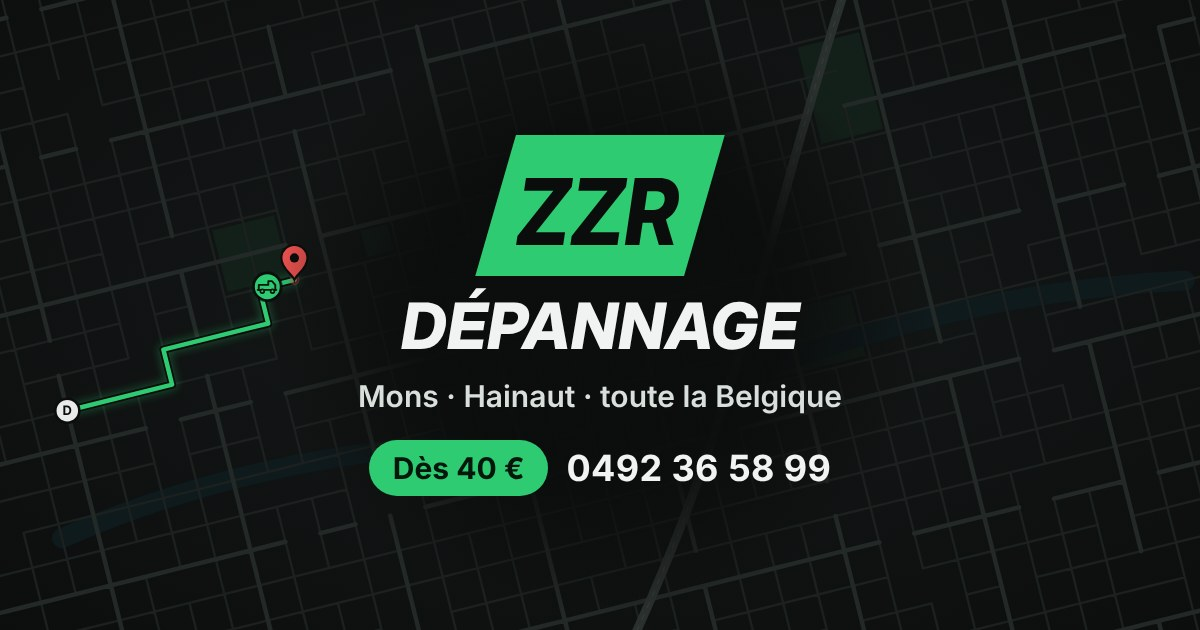
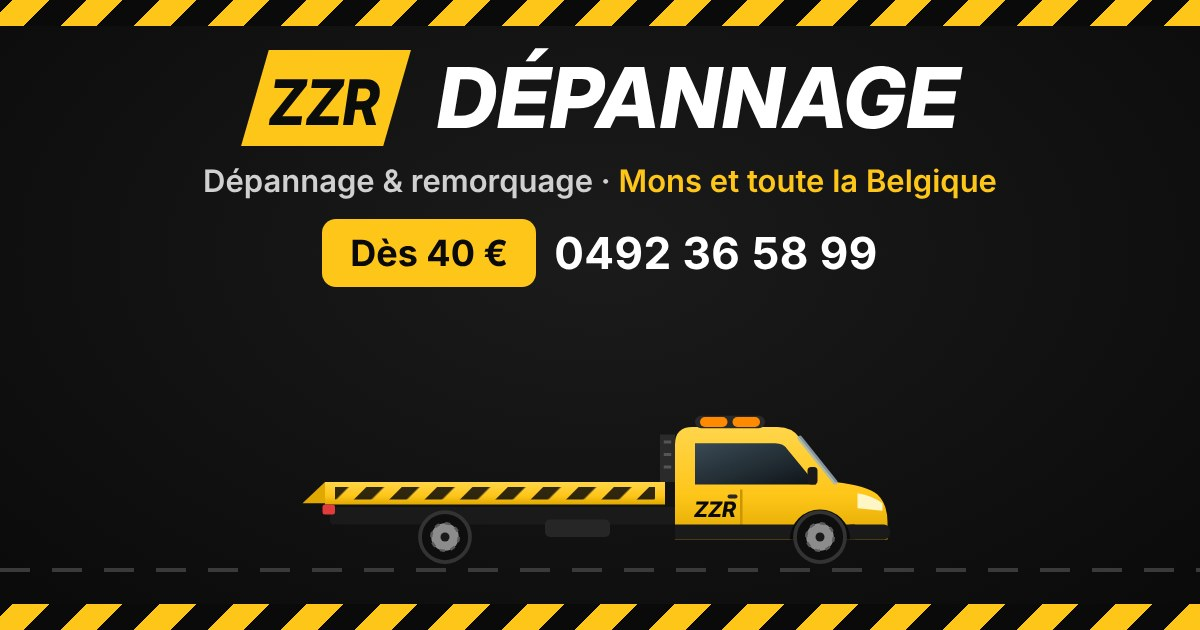
Nouvelle image de partage (WhatsApp, Snapchat…) en jaune et noir avec la dépanneuse
Claude-Session: https://claude.ai/code/session_01SoQ63VpB169CTM6V7WQ1RX

diff --git a/index.html b/index.html
@@ -15,12 +15,12 @@
 <meta property="og:type" content="website">
 <meta property="og:title" content="ZZR Dépannage · Mons et toute la Belgique">
 <meta property="og:description" content="Panne, accident, panne sèche, crevaison, remorquage. À partir de 40 €. Calcule ton devis en ligne.">
-<meta property="og:image" content="https://zzrdepannage.com/og-image.jpg?v=2">
+<meta property="og:image" content="https://zzrdepannage.com/og-image.jpg?v=3">
 <meta property="og:url" content="https://zzrdepannage.com/">
 <meta property="og:locale" content="fr_BE">
 <meta name="twitter:card" content="summary_large_image">
 <script type="application/ld+json">
-{"@context":"https://schema.org","@type":"AutomotiveBusiness","name":"ZZR Dépannage","description":"Dépannage et remorquage de véhicules : panne, accident, panne sèche, crevaison, enlèvement d'épaves.","telephone":"+32492365899","url":"https://zzrdepannage.com/","image":"https://zzrdepannage.com/og-image.jpg?v=2","priceRange":"À partir de 40 €","areaServed":[{"@type":"City","name":"Mons"},{"@type":"AdministrativeArea","name":"Hainaut"},{"@type":"Country","name":"Belgique"}]}
+{"@context":"https://schema.org","@type":"AutomotiveBusiness","name":"ZZR Dépannage","description":"Dépannage et remorquage de véhicules : panne, accident, panne sèche, crevaison, enlèvement d'épaves.","telephone":"+32492365899","url":"https://zzrdepannage.com/","image":"https://zzrdepannage.com/og-image.jpg?v=3","priceRange":"À partir de 40 €","areaServed":[{"@type":"City","name":"Mons"},{"@type":"AdministrativeArea","name":"Hainaut"},{"@type":"Country","name":"Belgique"}]}
 </script>
 <link rel="preload" href="fonts/inter-400.woff" as="font" type="font/woff" crossorigin>
 <link rel="preload" href="fonts/inter-display-800i.woff" as="font" type="font/woff" crossorigin>
